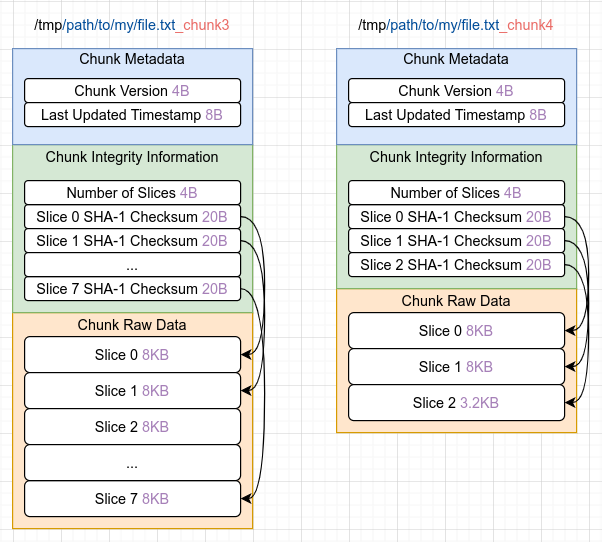
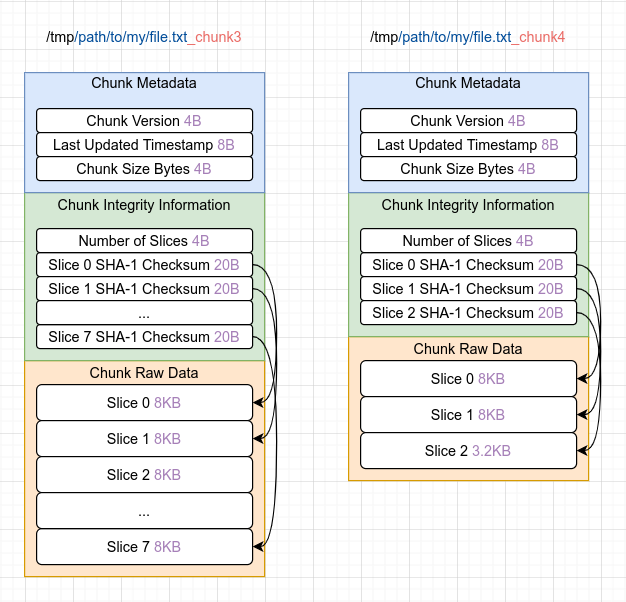
DF-29
* Implement Chunk logic
* Unit test Chunk
* Add new field sizeBytes to metadata
* Update diagrams

diff --git a/src/main/java/chunkserver/Chunk.java b/src/main/java/chunkserver/Chunk.java
@@ -1,0 +1,151 @@
+package chunkserver;
+
+import messaging.Message;
+import org.slf4j.Logger;
+import org.slf4j.LoggerFactory;
+import util.Constants;
+
+import java.io.BufferedInputStream;
+import java.io.ByteArrayInputStream;
+import java.io.DataInputStream;
+import java.io.DataOutputStream;
+import java.io.FileInputStream;
+import java.io.FileOutputStream;
+import java.io.IOException;
+import java.nio.file.Files;
+import java.nio.file.Path;
+import java.nio.file.Paths;
+import java.util.List;
+
+import static util.Constants.KB;
+
+public class Chunk {
+
+    public static Logger log = LoggerFactory.getLogger(Chunk.class);
+    private static String CHUNK_DIR;
+
+    public ChunkMetadata metadata;
+
+    public ChunkIntegrity integrity;
+
+    public byte[] data;
+
+    public Chunk(ChunkMetadata metadata, ChunkIntegrity integrity, byte[] data) {
+        this.metadata = metadata;
+        this.integrity = integrity;
+        this.data = data;
+    }
+
+    /**
+     * Loads a chunk, along with its metadata and integrity information, from disk.
+     * @param absolutePath The absolute path of the chunk's parent file.
+     * @param sequence The sequence number of the chunk within the parent file.
+     * @return A fully-populated Chunk in-memory, along with its metadata and integrity information
+     * @throws IOException If unable to read file.
+     */
+    public static Chunk load(String absolutePath, Integer sequence) throws IOException {
+
+        /*
+          If the file name is /user/bob/experiment/SimFile.data, chunk 2 of this file will be stored by a chunk server
+          as /tmp/user/bob/experiment/SimFile.data_chunk2
+         */
+        String chunkPath = String.format("%s%s_chunk%d", getChunkDir(), absolutePath, sequence);
+        log.info("Loading chunk from file \"{}\"", chunkPath);
+        Path path = Paths.get(chunkPath);
+        int storedChunkSize = (int) Files.size(path); // size of chunk in bytes including metadata/integrity information
+        log.info("Stored chunk size: {}", storedChunkSize);
+
+        // Read all stored chunk bytes into memory (shouldn't be too expensive, since only a chunk)
+        FileInputStream fileInputStream = new FileInputStream(chunkPath);
+        BufferedInputStream reader = new BufferedInputStream(fileInputStream, 8 * KB);
+        byte[] storedChunk = reader.readNBytes(storedChunkSize);
+        reader.close();
+        fileInputStream.close();
+
+        log.info("Stored chunk byte array size: {}", storedChunk.length);
+
+        // Initialize buffered streams for reading bytes into meaningful data types
+        ByteArrayInputStream byteInputStream = new ByteArrayInputStream(storedChunk);
+        DataInputStream dataInputStream = new DataInputStream(new BufferedInputStream(byteInputStream));
+
+        // Read chunk metadata
+        ChunkMetadata metadata = Message.readChunkMetadata(dataInputStream);
+
+        // Read chunk integrity data
+        List<String> sliceChecksums = Message.readStringList(dataInputStream);
+        ChunkIntegrity integrity = new ChunkIntegrity(sliceChecksums);
+
+        // Read actual chunk data
+        byte[] chunkData = dataInputStream.readNBytes(metadata.getSizeBytes());
+
+        // Construct Chunk
+        Chunk chunk = new Chunk(metadata, integrity, chunkData);
+
+        // Clean up buffered streams and return Chunk
+        dataInputStream.close();
+        byteInputStream.close();
+        return chunk;
+    }
+
+    /**
+     * Saves a chunk to disk, with its metadata and integrity information.
+     * @param chunk The chunk we are saving to disk.
+     * @throws IOException If unable to write to file.
+     */
+    public static void save(Chunk chunk) throws IOException {
+        /*
+          If the file name is /user/bob/experiment/SimFile.data, chunk 2 of this file will be stored by a chunk server
+          as /tmp/user/bob/experiment/SimFile.data_chunk2
+         */
+        String chunkPath = String.format("%s%s_chunk%d", getChunkDir(), chunk.metadata.getAbsoluteFilePath(),
+                chunk.metadata.getSequence());
+
+        FileOutputStream fileOutputStream = new FileOutputStream(chunkPath);
+        DataOutputStream dataOutStream = new DataOutputStream(fileOutputStream);
+
+        Message.writeChunkMetadata(dataOutStream, chunk.metadata);
+        Message.writeStringList(dataOutStream, chunk.integrity.getSliceChecksums());
+        dataOutStream.write(chunk.data, 0, chunk.data.length);
+
+        dataOutStream.close();
+        fileOutputStream.close();
+    }
+
+    /**
+     * Gets the directory on the Chunk Server's filesystem where chunks are stored.
+     * @return Directory as a String, or default value if none set.
+     */
+    public static String getChunkDir() {
+        if (CHUNK_DIR == null || CHUNK_DIR.trim().isEmpty()) {
+            log.warn("chunk variable not set. Using /tmp as default");
+            return "/tmp";
+        }
+        return CHUNK_DIR;
+    }
+
+    /**
+     * Sets the directory on the Chunk Server's filesystem where chunks are stored.
+     * @param dir Directory as a String
+     */
+    public static void setChunkDir(String dir) {
+        CHUNK_DIR = dir;
+    }
+
+    @Override
+    public String toString() {
+        StringBuilder sb = new StringBuilder(this.metadata.toString());
+        sb.append(this.integrity.toString());
+        sb.append("Chunk:\n");
+        int numberFullSizedSlices = this.metadata.getSizeBytes() / Constants.SLICE_SIZE;
+        for (int i = 0; i < numberFullSizedSlices; i++) {
+            sb.append(String.format("\t<-- Slice[%d], %d bytes -->\n", i, Constants.SLICE_SIZE));
+        }
+
+        int remainingBytes = this.metadata.getSizeBytes() % Constants.SLICE_SIZE;
+        if (remainingBytes > 0) {
+            sb.append(String.format("\t<-- Slice[%d], %d bytes -->\n", numberFullSizedSlices, remainingBytes));
+        }
+        return sb.toString();
+    }
+
+}

diff --git a/src/main/java/chunkserver/ChunkMetadata.java b/src/main/java/chunkserver/ChunkMetadata.java
@@ -18,11 +18,15 @@ public class ChunkMetadata {
     // The timestamp the chunk was last updated
     public Timestamp timestamp;
 
-    public ChunkMetadata(String absoluteFilePath, Integer version, Integer sequence, Timestamp timestamp) {
+    // The size in bytes of the raw chunk data
+    public Integer sizeBytes;
+
+    public ChunkMetadata(String absoluteFilePath, Integer version, Integer sequence, Timestamp timestamp, Integer sizeBytes) {
         this.absoluteFilePath = absoluteFilePath;
         this.version = version;
         this.sequence = sequence;
         this.timestamp = timestamp;
+        this.sizeBytes = sizeBytes;
     }
 
     public String getAbsoluteFilePath() {
@@ -41,6 +45,10 @@ public class ChunkMetadata {
         return timestamp;
     }
 
+    public Integer getSizeBytes() {
+        return sizeBytes;
+    }
+
     @Override
     public boolean equals(Object other) {
         if (other == null) return false;
@@ -50,7 +58,17 @@ public class ChunkMetadata {
         return (this.absoluteFilePath.equals(cmOther.getAbsoluteFilePath()) &&
                 this.version.equals(cmOther.getVersion()) &&
                 this.sequence.equals(cmOther.getSequence()) &&
-                this.timestamp.getTime() == cmOther.getTimestamp().getTime());
+                this.timestamp.getTime() == cmOther.getTimestamp().getTime() &&
+                this.sizeBytes.equals(cmOther.getSizeBytes())
+        );
     }
 
+    @Override
+    public String toString() {
+        return "Chunk Metadata:\n" + String.format("\tFile: %s\n", this.absoluteFilePath) +
+                String.format("\tVersion: %d\n", this.version) +
+                String.format("\tSequence: %d\n", this.sequence) +
+                String.format("\tTimestamp: %s\n", this.timestamp) +
+                String.format("\tSize: %s\n", this.sizeBytes);
+    }
 }

diff --git a/src/test/java/chunkserver/ChunkTest.java b/src/test/java/chunkserver/ChunkTest.java
@@ -1,0 +1,55 @@
+package chunkserver;
+
+import org.junit.jupiter.api.Test;
+
+import java.io.BufferedInputStream;
+import java.io.File;
+import java.io.FileInputStream;
+import java.io.FileNotFoundException;
+import java.io.IOException;
+import java.lang.reflect.Field;
+import java.util.Collections;
+import java.util.HashMap;
+import java.util.List;
+import java.util.Map;
+
+import static org.junit.jupiter.api.Assertions.assertEquals;
+import static org.junit.jupiter.api.Assertions.assertTrue;
+import static org.junit.jupiter.api.Assertions.fail;
+import static util.Constants.CHUNK_SIZE;
+import static util.Constants.KB;
+
+public class ChunkTest {
+
+    private static String getTestResourceAbsolutePath(String filename) {
+        String path = "src/test/resources";
+        File file = new File(path);
+        String absolutePath = file.getAbsolutePath();
+        return String.format("%s/%s", absolutePath, filename);
+    }
+
+    private static String getTestResourcesPath() {
+        String path = "src/test/resources";
+        File file = new File(path);
+        return file.getAbsolutePath();
+    }
+
+    @Test
+    public void testLoadChunk() {
+        String previousChunkDir = Chunk.getChunkDir();
+        Chunk.setChunkDir(getTestResourcesPath());
+        try {
+            Chunk chunk = Chunk.load("/test_35kb_chunk.data", 3);
+            System.out.println(chunk);
+
+        } catch (IOException e) {
+            System.err.println(e.getMessage());
+            fail("Caught IOException!");
+        } catch (Exception e) {
+            System.err.println(e.getMessage());
+            System.err.println(e.getCause());
+            fail("Caught Exception!");
+        }
+        Chunk.setChunkDir(previousChunkDir);
+    }
+}

diff --git a/src/test/java/messaging/MessageTest.java b/src/test/java/messaging/MessageTest.java
@@ -252,7 +252,7 @@ public class MessageTest {
     public void testWriteAndReadChunkMetadata() {
         Instant now = Instant.now();
         Timestamp tsNow = Timestamp.from(now);
-        ChunkMetadata expected = new ChunkMetadata("/test_filepath", 0, 0, tsNow);
+        ChunkMetadata expected = new ChunkMetadata("/test_filepath", 0, 0, tsNow, 0);
 
         try {
             // Build test byte array
@@ -287,8 +287,8 @@ public class MessageTest {
         List<ChunkMetadata> expecteds = new ArrayList<>();
         Instant now = Instant.now();
         Timestamp tsNow = Timestamp.from(now);
-        expecteds.add(new ChunkMetadata("/test_1_filepath", 1, 7, tsNow));
-        expecteds.add(new ChunkMetadata("/test_2_filepath", 1, 4, tsNow));
+        expecteds.add(new ChunkMetadata("/test_1_filepath", 1, 7, tsNow, 0));
+        expecteds.add(new ChunkMetadata("/test_2_filepath", 1, 4, tsNow, 0));
 
         try {
             // Build test byte array

diff --git a/src/main/java/chunkserver/ChunkIntegrity.java b/src/main/java/chunkserver/ChunkIntegrity.java
@@ -28,8 +28,8 @@ public class ChunkIntegrity {
     // A list of SHA-1 checksums, one for each slice of the chunk
     public List<String> sliceChecksums;
 
-    public ChunkIntegrity() {
-        this.sliceChecksums = new ArrayList<>();
+    public ChunkIntegrity(List<String> sliceChecksums) {
+        this.sliceChecksums = sliceChecksums;
     }
 
     /**
@@ -139,6 +139,16 @@ public class ChunkIntegrity {
      */
     public static String bytesToHexString(byte[] hexArray) {
         return Hex.encodeHexString(hexArray);
+    }
+
+    @Override
+    public String toString() {
+        StringBuilder sb = new StringBuilder("Chunk Integrity:\n");
+        sb.append(String.format("\tSlices: %d\n", this.sliceChecksums.size()));
+        for (String sliceChecksum: this.sliceChecksums) {
+            sb.append(String.format("\t\tChecksum: %s\n", sliceChecksum));
+        }
+        return sb.toString();
     }
 
 }

diff --git a/src/main/java/messaging/Message.java b/src/main/java/messaging/Message.java
@@ -217,7 +217,8 @@ public abstract class Message {
         int sequence = dataInputStream.readInt();
         long tsMillis = dataInputStream.readLong(); // read timestamp as long milliseconds since January 1, 1970, GMT
         Timestamp timestamp = new Timestamp(tsMillis);
-        return new ChunkMetadata(absoluteFilePath, version, sequence, timestamp);
+        int sizeBytes = dataInputStream.readInt();
+        return new ChunkMetadata(absoluteFilePath, version, sequence, timestamp, sizeBytes);
     }
 
     /**
@@ -236,6 +237,7 @@ public abstract class Message {
         dataOutputStream.writeInt(metadata.getSequence());
         long tsMillis = metadata.getTimestamp().getTime(); // get timestamp as milliseconds since January 1, 1970, GMT
         dataOutputStream.writeLong(tsMillis);
+        dataOutputStream.writeInt(metadata.getSizeBytes());
     }
 
     /**

diff --git a/src/test/java/messaging/HeartbeatMajorTest.java b/src/test/java/messaging/HeartbeatMajorTest.java
@@ -31,8 +31,8 @@ public class HeartbeatMajorTest {
         List<ChunkMetadata> chunksMetadata = new ArrayList<>();
         Instant now = Instant.now();
         Timestamp tsNow = Timestamp.from(now);
-        chunksMetadata.add(new ChunkMetadata("/test_1_filepath", 1, 7, tsNow));
-        chunksMetadata.add(new ChunkMetadata("/test_2_filepath", 1, 4, tsNow));
+        chunksMetadata.add(new ChunkMetadata("/test_1_filepath", 1, 7, tsNow, 0));
+        chunksMetadata.add(new ChunkMetadata("/test_2_filepath", 1, 4, tsNow, 0));
 
         HeartbeatMajor a = new HeartbeatMajor(testHostname, testIpAddr, testPort, testTotalChunksMaintained,
                 testFreeSpaceAvailable, chunksMetadata);
